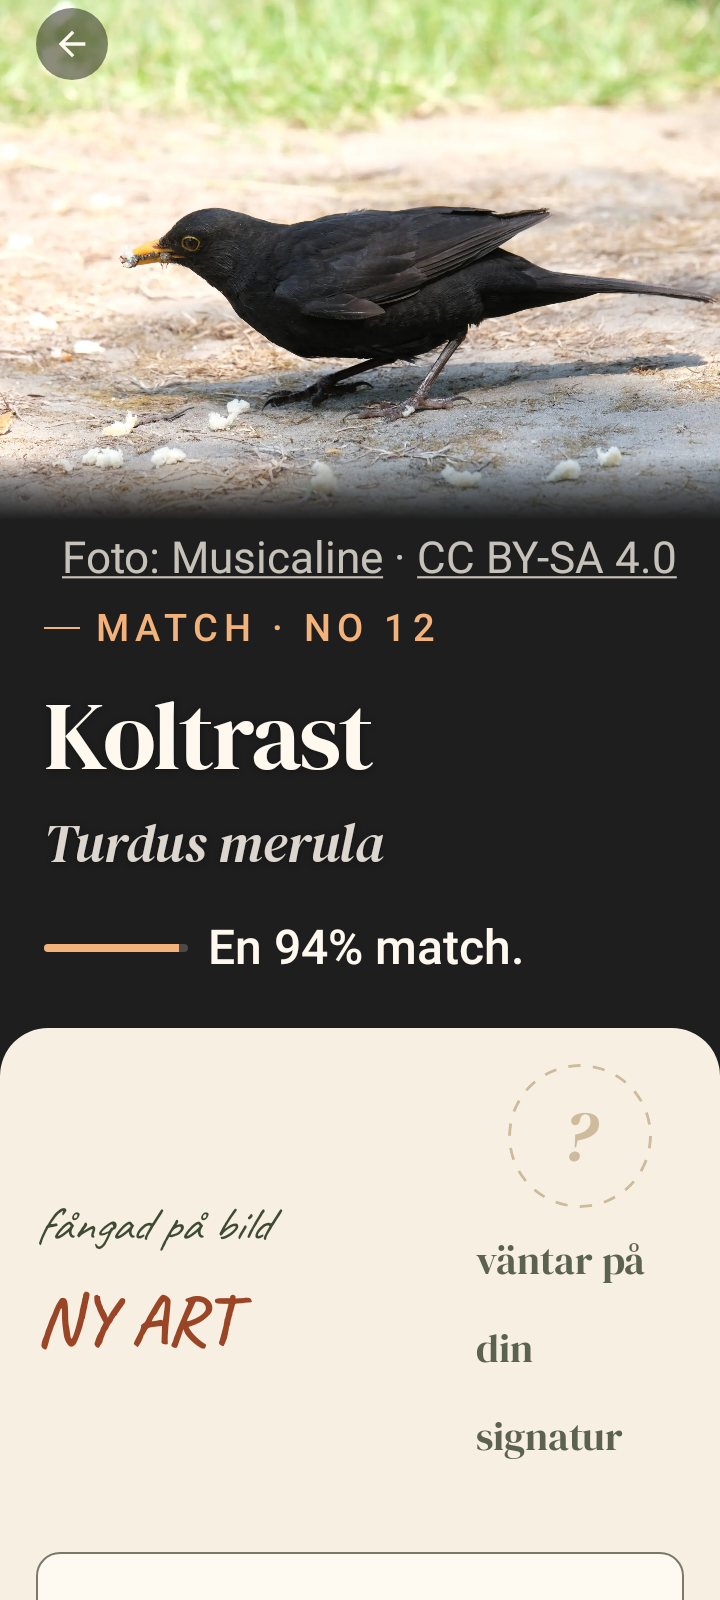
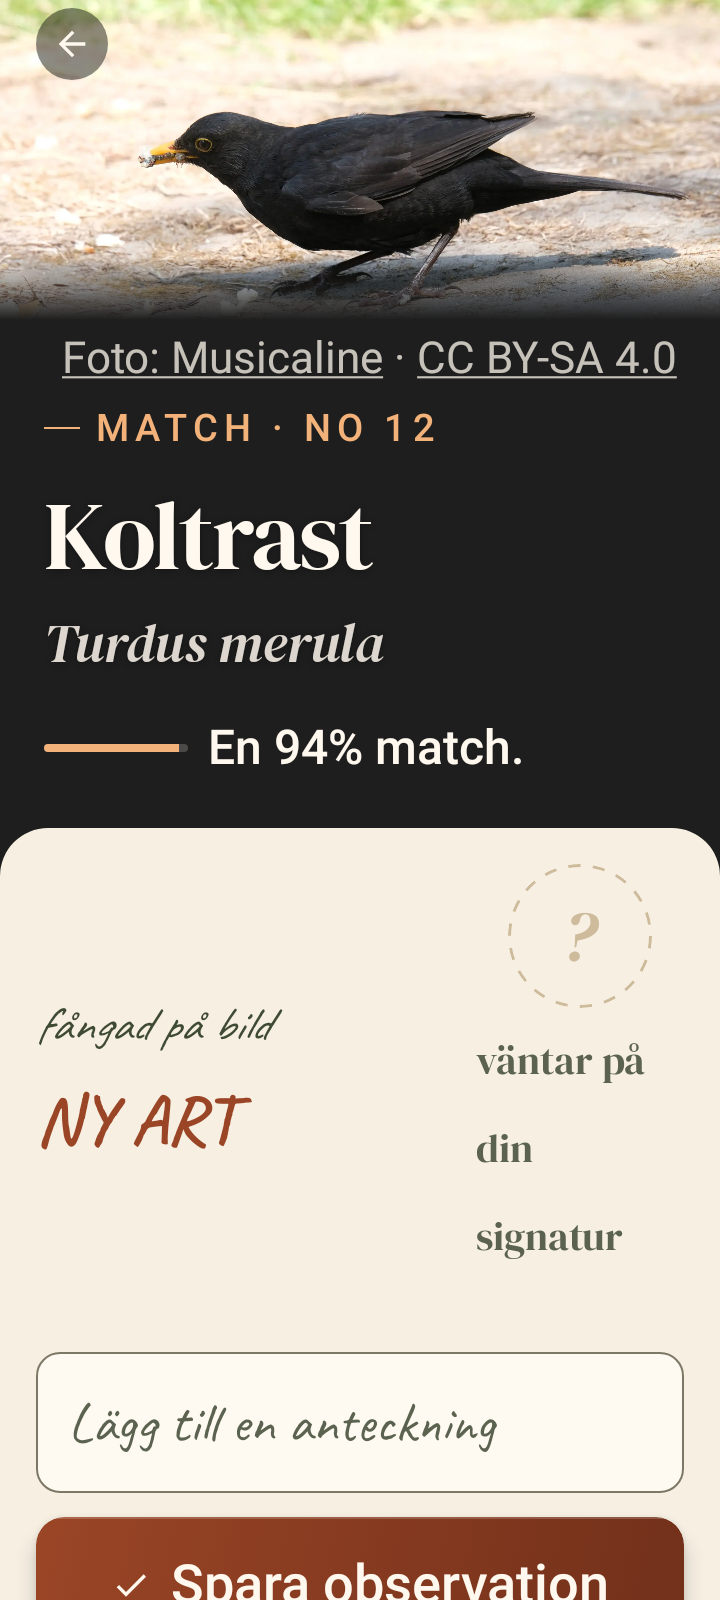
fix(app): Match measures what follows the photo, floor back at 160dp
The photo's height came from a constant model of the content below it, measured
under Robolectric's fake text metrics: with real metrics that content is ~35dp
taller, so "Spara observation" could end below the fold. Match now measures it on
screen (the distance from the photo's bottom edge to the save button's, in the
scrolling content's own coordinates, which does not depend on the photo's height,
so it settles in one frame) and sizes the photo as available - below - margin.
The constant model only sizes the first frame. The floor is back at 160dp: with
large text on a small phone the button is a short scroll away rather than the bird
cut to a strip.

MatchSaveButtonFoldTest runs with NATIVE graphics and one of the longest credits
("U.S. Fish and Wildlife Service - Midwest Region", two lines): on 360x800dp the
button is in view at 100% text, at 130% and 200% the photo keeps its floor (button
44dp and 239dp below); on 412x915dp it is in view at 130%. Checked on the pg-api36
emulator at 360x800dp with three-button navigation, status bar and the app's
bottom bar, Pilgrimsfalk (two-line credit) at 100%: the whole button shows
(docs/superpowers/screenshots/v1.3/device/krediter-match-360-sv.png).

diff --git a/composeApp/src/commonMain/kotlin/se/birdy/app/ui/match/MatchView.kt b/composeApp/src/commonMain/kotlin/se/birdy/app/ui/match/MatchView.kt
@@ -45,10 +45,14 @@ import androidx.compose.ui.Alignment
 import androidx.compose.ui.Modifier
 import androidx.compose.ui.draw.clip
 import androidx.compose.ui.draw.rotate
+import androidx.compose.ui.geometry.Offset
 import androidx.compose.ui.hapticfeedback.HapticFeedbackType
 import androidx.compose.ui.layout.ContentScale
+import androidx.compose.ui.layout.LayoutCoordinates
+import androidx.compose.ui.layout.onGloballyPositioned
 import androidx.compose.ui.platform.LocalDensity
 import androidx.compose.ui.platform.LocalHapticFeedback
+import androidx.compose.ui.platform.testTag
 import androidx.compose.ui.text.font.FontStyle
 import androidx.compose.ui.text.font.FontWeight
 import androidx.compose.ui.text.input.ImeAction
@@ -105,6 +109,7 @@ import se.birdy.app.ui.theme.rememberCaveat
 import se.birdy.app.util.speciesImageUri
 import se.birdy.content.Locale
 import se.birdy.ml.ScanSource
+import kotlin.math.abs
 
 // Caps the stamp column's width so a long caption (StampSeal's 10sp name/caption text has no
 // maxLines — "awaiting your signature", or a long species name after a first-sighting save) wraps
@@ -112,41 +117,82 @@ import se.birdy.ml.ScanSource
 // unweighted children — this Box — before it hands the rest of the width to weight(1f)).
 private val StampColumnMaxWidth = 104.dp
 
+/** The Match photo, for tests that measure it. */
+internal const val MATCH_PHOTO_TAG = "match-photo"
+
 // The Match photo sits above the name (PhotoHero's textBelowPhoto), which makes the hero taller,
 // and "Spara observation" below it is this screen's main action: it must be in view without
 // scrolling, also with larger text (2026-10-06). So the photo takes the room that is left above
-// everything that follows it, between MATCH_PHOTO_MIN and MATCH_PHOTO_MAX. MATCH_BELOW_PHOTO is
-// what follows the photo down to the bottom of the save button (photo credit, name, latin name,
-// match bar, paper sheet with stamp, note field, button) at 100% text on a 360dp-wide phone, and
-// it grows by MATCH_BELOW_PHOTO_PER_FONT_SCALE per +1.0 of font scale (measured 2026-10-06: 379dp,
-// +88.5dp; the photo credit of 2026-10-07 adds 27dp, +15dp). MatchSaveButtonFoldTest checks the
-// result on a 360x800dp phone at 100%, 130% and 200% text; re-measure there if the content below
-// the photo changes. The floor was 160dp before the credit; at 200% text on that phone the photo
-// is now 128dp, the room the button leaves.
+// what follows it down to the bottom of the save button (photo credit, name, latin name, match
+// bar, paper sheet with stamp, note field, button), between MATCH_PHOTO_MIN and MATCH_PHOTO_MAX.
+// That height depends on the font, the text size, the name and the photo credit, so it is
+// measured on screen ([BelowPhoto]); the estimate below only sizes the first frame. With large
+// text on a small phone the floor wins and the button is a short scroll away: the bird is never
+// cropped to a strip. MatchSaveButtonFoldTest checks this with real text metrics: on a 360x800dp
+// phone the button is in view at 100% text and the photo keeps its floor at 130% and 200%; on a
+// 412x915dp phone the button is in view at 130%.
 internal val MATCH_PHOTO_MAX = 260.dp
-internal val MATCH_PHOTO_MIN = 128.dp
-private val MATCH_BELOW_PHOTO = 407.dp
-private val MATCH_BELOW_PHOTO_PER_FONT_SCALE = 105.dp
+internal val MATCH_PHOTO_MIN = 160.dp
 private val MATCH_FOLD_MARGIN = 8.dp
+
+// What follows the photo before it has been measured, on a 360dp-wide phone (measured 2026-10-07
+// with real text metrics: 443dp at 100% text with a one-line credit, 458dp with a two-line one,
+// and about 250dp more per +1.0 of font scale, where the name, the credit and the stamp's
+// caption wrap).
+private val MATCH_BELOW_PHOTO_ESTIMATE = 450.dp
+private val MATCH_BELOW_PHOTO_ESTIMATE_PER_FONT_SCALE = 250.dp
+
+internal fun estimatedBelowPhoto(fontScale: Float): Dp =
+    MATCH_BELOW_PHOTO_ESTIMATE + MATCH_BELOW_PHOTO_ESTIMATE_PER_FONT_SCALE * (fontScale - 1f).coerceAtLeast(0f)
 
 /**
  * The Match photo's height for a screen whose visible area is [viewportHeight] tall (the hero
- * draws behind the [statusBar], so that height comes off the top) at [fontScale].
+ * draws behind the [statusBar], so that height comes off the top), with [belowPhoto] of content
+ * between the photo's bottom edge and the save button's.
  */
 internal fun matchPhotoHeight(
     viewportHeight: Dp,
     statusBar: Dp,
-    fontScale: Float,
-): Dp {
-    val belowPhoto = MATCH_BELOW_PHOTO + MATCH_BELOW_PHOTO_PER_FONT_SCALE * (fontScale - 1f).coerceAtLeast(0f)
-    return (viewportHeight - statusBar - belowPhoto - MATCH_FOLD_MARGIN).coerceIn(MATCH_PHOTO_MIN, MATCH_PHOTO_MAX)
+    belowPhoto: Dp,
+): Dp = (viewportHeight - statusBar - belowPhoto - MATCH_FOLD_MARGIN).coerceIn(MATCH_PHOTO_MIN, MATCH_PHOTO_MAX)
+
+/**
+ * What follows the Match photo down to the bottom of the save button, measured on screen: the
+ * distance from the photo's bottom edge to the button's, both read in the scrolling content's own
+ * coordinates, so scrolling doesn't change it. It doesn't depend on the photo's height either, so
+ * sizing the photo from it settles in one frame. Each of the three places reports its coordinates
+ * when it is laid out; the distance is taken once all three are attached. Without a photo, or
+ * after saving (the button is gone), the last value stays.
+ */
+private class BelowPhoto {
+    var content: LayoutCoordinates? = null
+    var photo: LayoutCoordinates? = null
+    var button: LayoutCoordinates? = null
+    var px: Float? by mutableStateOf(null)
+
+    fun measure() {
+        val content = content
+        val photo = photo
+        val button = button
+        if (content?.isAttached != true || photo?.isAttached != true || button?.isAttached != true) return
+        val photoBottom = content.localPositionOf(photo, Offset(0f, photo.size.height.toFloat())).y
+        val buttonBottom = content.localPositionOf(button, Offset(0f, button.size.height.toFloat())).y
+        val below = buttonBottom - photoBottom
+        val current = px
+        // Sub-pixel jitter must not resize the photo over and over.
+        if (current == null || abs(current - below) > 1f) px = below
+    }
 }
 
 @Composable
-private fun rememberMatchPhotoHeight(viewportHeight: Dp): Dp {
+private fun rememberMatchPhotoHeight(
+    viewportHeight: Dp,
+    belowPhotoPx: Float?,
+): Dp {
     val statusBar = WindowInsets.statusBars.asPaddingValues().calculateTopPadding()
-    val fontScale = LocalDensity.current.fontScale
-    return remember(viewportHeight, statusBar, fontScale) { matchPhotoHeight(viewportHeight, statusBar, fontScale) }
+    val density = LocalDensity.current
+    val below = belowPhotoPx?.let { with(density) { it.toDp() } } ?: estimatedBelowPhoto(density.fontScale)
+    return matchPhotoHeight(viewportHeight, statusBar, below)
 }
 
 @OptIn(ExperimentalResourceApi::class)
@@ -193,9 +239,10 @@ internal fun MatchView(
     val isSaving = state.saveStatus == MatchResultUiState.SaveStatus.Saving
 
     val scrollState = rememberScrollState()
+    val belowPhoto = remember { BelowPhoto() }
 
     BoxWithConstraints(modifier = Modifier.fillMaxSize()) {
-        val photoHeight = rememberMatchPhotoHeight(viewportHeight = maxHeight)
+        val photoHeight = rememberMatchPhotoHeight(viewportHeight = maxHeight, belowPhotoPx = belowPhoto.px)
         val photoScrolledAway by rememberPhotoScrolledAway(scrollState, photoHeight)
         Column(
             modifier =
@@ -205,7 +252,12 @@ internal fun MatchView(
                     // its own MossCreme fill or a seam of a different color shows through the
                     // corner cutouts (see PaperSheet's KDoc).
                     .background(MossCreme)
-                    .verticalScroll(scrollState),
+                    .verticalScroll(scrollState)
+                    // After verticalScroll: the scrolling content's own coordinates (see BelowPhoto).
+                    .onGloballyPositioned {
+                        belowPhoto.content = it
+                        belowPhoto.measure()
+                    },
         ) {
             val heroImage =
                 state.species.images.firstOrNull { it.role == "hero" }
@@ -230,7 +282,14 @@ internal fun MatchView(
                                 model = speciesImageUri(path),
                                 contentDescription = null,
                                 contentScale = ContentScale.Crop,
-                                modifier = Modifier.fillMaxSize(),
+                                modifier =
+                                    Modifier
+                                        .fillMaxSize()
+                                        .testTag(MATCH_PHOTO_TAG)
+                                        .onGloballyPositioned {
+                                            belowPhoto.photo = it
+                                            belowPhoto.measure()
+                                        },
                             )
                         }
                     },
@@ -305,6 +364,11 @@ internal fun MatchView(
                         enabled = !isSaving && !isSaved && state.unlockQueueSize == 0,
                         loading = isSaving,
                         leadingIcon = Icons.Outlined.Check,
+                        modifier =
+                            Modifier.onGloballyPositioned {
+                                belowPhoto.button = it
+                                belowPhoto.measure()
+                            },
                     )
                     Spacer(Modifier.height(8.dp))
                     BirdyTextButton(

diff --git a/composeApp/src/androidUnitTest/kotlin/se/birdy/app/ui/match/MatchSaveButtonFoldTest.kt b/composeApp/src/androidUnitTest/kotlin/se/birdy/app/ui/match/MatchSaveButtonFoldTest.kt
@@ -11,6 +11,7 @@ import androidx.compose.ui.test.getUnclippedBoundsInRoot
 import androidx.compose.ui.test.hasTestTag
 import androidx.compose.ui.test.hasText
 import androidx.compose.ui.test.junit4.createComposeRule
+import androidx.compose.ui.unit.Dp
 import androidx.compose.ui.unit.dp
 import kotlinx.datetime.TimeZone
 import org.junit.Before
@@ -20,6 +21,7 @@ import org.junit.runner.RunWith
 import org.robolectric.RobolectricTestRunner
 import org.robolectric.RuntimeEnvironment
 import org.robolectric.annotation.Config
+import org.robolectric.annotation.GraphicsMode
 import se.birdy.app.testing.StatusBarInset
 import se.birdy.app.testing.attachComposeResourcesContext
 import se.birdy.app.ui.theme.BirdyTheme
@@ -32,6 +34,7 @@ import se.birdy.content.model.SpeciesTaxonomy
 import se.birdy.ml.Classification
 import se.birdy.ml.ClassificationResult
 import se.birdy.ml.ScanSource
+import kotlin.test.assertEquals
 import kotlin.test.assertTrue
 
 /**
@@ -39,8 +42,13 @@ import kotlin.test.assertTrue
  * larger text (2026-10-06: the photo above the name made the hero taller). A 360x800dp phone
  * as the app really shows it: a 32dp status bar the hero draws behind, and below the screen the
  * app's 72dp bottom bar plus a 48dp three-button navigation bar (the tallest kind).
+ *
+ * NATIVE graphics, so the text has its real metrics (the default fake ones measured the content
+ * below the photo ~35dp short, 2026-10-07 review). The photo credit is one of the longest in
+ * species.db, so it takes two lines.
  */
 @RunWith(RobolectricTestRunner::class)
+@GraphicsMode(GraphicsMode.Mode.NATIVE)
 @Config(sdk = [35], qualifiers = "sv-w360dp-h800dp-xhdpi")
 class MatchSaveButtonFoldTest {
     @get:Rule
@@ -64,11 +72,26 @@ class MatchSaveButtonFoldTest {
             season = emptyMap(),
             description = null,
             migration = null,
-            // A typical credit under the photo: the photographers' names are 13 characters on average.
-            images = listOf(SpeciesImage("hero", "Q25334/hero.webp", 2400, 1800, "CC BY-SA 4.0", "Hobbyfotowiki", "https://example.com")),
+            images =
+                listOf(
+                    SpeciesImage(
+                        "hero",
+                        "Q25334/hero.webp",
+                        2400,
+                        1800,
+                        "Public domain",
+                        "U.S. Fish and Wildlife Service - Midwest Region",
+                        "https://commons.wikimedia.org/wiki/File:Robin.jpg",
+                    ),
+                ),
         )
 
-    private fun assertSaveButtonInView(fontScale: Float) {
+    private class Fold(
+        val buttonOverflow: Dp,
+        val photoHeight: Dp,
+    )
+
+    private fun layOut(fontScale: Float): Fold {
         RuntimeEnvironment.setFontScale(fontScale)
         val state =
             MatchResultUiState.Match(
@@ -100,18 +123,46 @@ class MatchSaveButtonFoldTest {
         compose.waitForIdle()
         val viewport = compose.onNode(hasTestTag("viewport")).getUnclippedBoundsInRoot()
         val button = compose.onNode(hasText("Spara observation")).getUnclippedBoundsInRoot()
+        val photo = compose.onNode(hasTestTag(MATCH_PHOTO_TAG)).getUnclippedBoundsInRoot()
+        return Fold(buttonOverflow = button.bottom - viewport.bottom, photoHeight = photo.bottom - photo.top)
+    }
+
+    private fun assertSaveButtonInView(fontScale: Float) {
+        val fold = layOut(fontScale)
         assertTrue(
-            button.bottom <= viewport.bottom,
-            "at font scale $fontScale the save button ends ${button.bottom - viewport.bottom} below the visible area",
+            fold.buttonOverflow <= 0.dp,
+            "at font scale $fontScale the save button ends ${fold.buttonOverflow} below the visible area " +
+                "(photo ${fold.photoHeight})",
         )
+    }
+
+    /**
+     * Larger text on this small phone: what follows the photo is too tall for the button to fit
+     * above the fold, so the photo keeps its floor rather than being cut to a strip, and the button
+     * is a short scroll away. Measured 2026-10-07 with this two-line credit: 44dp at 130%, 239dp
+     * at 200%; at 130% even without a credit the photo was already at its floor here.
+     */
+    private fun assertPhotoKeepsItsFloor(fontScale: Float) {
+        val fold = layOut(fontScale)
+        // The photo includes the 32dp status bar it draws behind.
+        val floor = MATCH_PHOTO_MIN + 32.dp
+        if (fold.buttonOverflow > 0.dp) {
+            assertEquals(floor, fold.photoHeight, "the button is ${fold.buttonOverflow} below the fold, so the photo must be at its floor")
+        }
+        assertTrue(fold.photoHeight >= floor, "photo ${fold.photoHeight} below the floor")
     }
 
     @Test
     fun `the save button is in view at normal text size`() = assertSaveButtonInView(1f)
 
     @Test
-    fun `the save button is in view at 130 percent text`() = assertSaveButtonInView(1.3f)
+    fun `at 130 percent text the photo keeps its floor`() = assertPhotoKeepsItsFloor(1.3f)
 
     @Test
-    fun `the save button is in view at 200 percent text`() = assertSaveButtonInView(2f)
+    fun `at 200 percent text the photo keeps its floor`() = assertPhotoKeepsItsFloor(2f)
+
+    // A common phone size (412x915dp, e.g. Pixel 7 and 8) has the room at 130% text.
+    @Test
+    @Config(qualifiers = "sv-w412dp-h915dp-xhdpi")
+    fun `the save button is in view at 130 percent text on a common phone`() = assertSaveButtonInView(1.3f)
 }

diff --git a/composeApp/src/commonTest/kotlin/se/birdy/app/ui/match/MatchPhotoHeightTest.kt b/composeApp/src/commonTest/kotlin/se/birdy/app/ui/match/MatchPhotoHeightTest.kt
@@ -7,31 +7,34 @@ import kotlin.test.assertTrue
 
 /**
  * The Match photo gives way so "Spara observation" stays in view (2026-10-06): full 260dp when
- * there is room, smaller with larger text or a shorter screen, never below the floor.
+ * there is room, smaller when more follows it (larger text, a longer credit) or the screen is
+ * shorter, never below the floor. What follows it is measured on screen (MatchSaveButtonFoldTest);
+ * the estimate only sizes the first frame.
  */
 class MatchPhotoHeightTest {
     private val statusBar = 32.dp
 
     @Test
-    fun `a tall screen at normal text size gets the full photo`() {
-        assertEquals(MATCH_PHOTO_MAX, matchPhotoHeight(viewportHeight = 800.dp, statusBar = statusBar, fontScale = 1f))
+    fun `a tall screen gets the full photo`() {
+        assertEquals(MATCH_PHOTO_MAX, matchPhotoHeight(viewportHeight = 891.dp, statusBar = statusBar, belowPhoto = 443.dp))
     }
 
     @Test
-    fun `the photo shrinks step by step as the text grows`() {
-        val heights = listOf(1f, 1.15f, 1.3f, 1.5f, 2f).map { matchPhotoHeight(680.dp, statusBar, it) }
+    fun `the photo shrinks as more follows it`() {
+        val heights = listOf(1f, 1.15f, 1.3f, 1.5f, 2f).map { matchPhotoHeight(800.dp, statusBar, estimatedBelowPhoto(it)) }
         assertEquals(heights.sortedDescending(), heights, "not shrinking with font scale: $heights")
         assertTrue(heights.first() > heights.last(), "no change at all: $heights")
     }
 
     @Test
     fun `the photo shrinks on a shorter screen`() {
-        assertTrue(matchPhotoHeight(600.dp, statusBar, 1f) < matchPhotoHeight(680.dp, statusBar, 1f))
+        assertTrue(matchPhotoHeight(680.dp, statusBar, 443.dp) < matchPhotoHeight(740.dp, statusBar, 443.dp))
     }
 
     @Test
     fun `the photo stays between the floor and the full height`() {
-        assertEquals(MATCH_PHOTO_MIN, matchPhotoHeight(400.dp, statusBar, 2f))
-        assertEquals(MATCH_PHOTO_MAX, matchPhotoHeight(2000.dp, statusBar, 1f))
+        assertEquals(MATCH_PHOTO_MIN, matchPhotoHeight(400.dp, statusBar, estimatedBelowPhoto(2f)))
+        assertEquals(MATCH_PHOTO_MAX, matchPhotoHeight(2000.dp, statusBar, estimatedBelowPhoto(1f)))
+        assertEquals(160.dp, MATCH_PHOTO_MIN)
     }
 }
